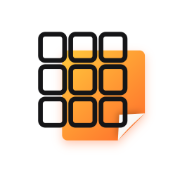
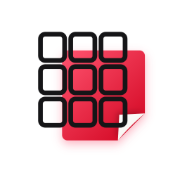
브랜드 정리: 홍이도 인형 로고, 머리색 포인트, 그라디언트 배경, 칩·매수 정리

Changed region(s): [[0.3333, 0.2778, 0.8056, 0.8056]]

diff --git a/public/style.css b/public/style.css
@@ -1,4 +1,5 @@
-/* style.css — 다크룸 테마 (아이폰 설정과 상관없이 항상 어두운 화면) */
+/* style.css — 다크룸 테마 (아이폰 설정과 상관없이 항상 어두운 화면)
+   포인트 색은 홍이도 캐릭터의 머리색 하나로 통일한다. */
 
 :root {
   color-scheme: dark;
@@ -9,20 +10,26 @@
   --text: #f2f2f2;
   --text-2: #a1a1a6;      /* 보조 글자 */
   --text-3: #6e6e73;      /* 아주 옅은 글자 */
-  --accent: #ffb547;      /* 앰버: 인쇄 버튼, 선택한 칸 */
-  --on-accent: #1a1300;
-  --danger: #ff6b5e;
+  --accent: #f81a44;      /* 홍이도 머리색: 인쇄 버튼, 선택한 칸, 스위치 */
+  --on-accent: #ffffff;
+  --accent-soft: rgba(248, 26, 68, 0.14);
+  --danger: #a1a1a6;      /* 비우기 같은 버튼은 포인트 색과 헷갈리지 않게 회색으로 */
   --paper: #f7f7f5;       /* 스티커 용지 */
   --empty-line: #d1d1d6;  /* 빈 칸 점선 */
   --empty-plus: #c7c7cc;  /* 빈 칸 + */
   --icon-cut: var(--bg);  /* 아이콘 안쪽을 바탕색으로 비우기 */
   --font: -apple-system, BlinkMacSystemFont, "SF Pro Text", "Apple SD Gothic Neo", "Malgun Gothic", sans-serif;
+  /* 로고용: 아이폰 기본 글꼴(SF Pro)을 보통 굵기·좁은 자간으로. 따로 내려받지 않아 가볍다 */
+  --font-display: -apple-system, BlinkMacSystemFont, "SF Pro Display", "Helvetica Neue", "Segoe UI", Arial, sans-serif;
+  /* 배경: 왼쪽 위에서 머리색 빛이 아주 은은하게 번지고, 아래로 갈수록 거의 검정 */
+  --bg-glow: radial-gradient(130% 55% at 0% 0%, rgba(248, 26, 68, 0.22) 0%, rgba(120, 20, 40, 0.10) 40%, rgba(17, 17, 19, 0) 72%);
   --safe-b: env(safe-area-inset-bottom, 0px);
 }
 
 * { box-sizing: border-box; }
 
-html, body { background: var(--bg); }
+html { background: var(--bg); }
+body { background: var(--bg-glow), var(--bg); background-repeat: no-repeat; min-height: 100svh; }
 
 body {
   -webkit-user-select: none;
@@ -52,22 +59,31 @@ input { -webkit-user-select: text; user-select: text; }
   height: 100svh;
   max-width: 560px;
   margin: 0 auto;
-  padding: max(10px, env(safe-area-inset-top)) 12px calc(84px + var(--safe-b));
+  padding: calc(max(10px, env(safe-area-inset-top)) + 6px) 12px calc(78px + var(--safe-b));
 }
 
 .topbar {
   display: flex;
   align-items: center;
   justify-content: space-between;
-  min-height: 44px;
+  min-height: 40px;
 }
 
-.topbar h1 {
-  margin: 0;
-  font-size: 20px;
-  font-weight: 600;
-  letter-spacing: 0.2px;
+.topbar h1 { margin: 0; font-weight: inherit; }
+
+/* 로고: hongid + 인형 얼굴(o 자리) + 작은 한글 */
+.brand { display: flex; flex-direction: column; gap: 2px; }
+.brand-word {
+  display: flex;
+  align-items: flex-end;
+  font-family: var(--font-display);
+  font-size: 28px;
+  font-weight: 500;
+  letter-spacing: -0.045em;
+  line-height: 0.9;
 }
+.brand-face { height: 0.74em; width: auto; margin-left: 0.04em; margin-bottom: -0.02em; }
+.brand-sub { font-size: 11px; line-height: 1.2; color: var(--text-2); letter-spacing: 0.08em; }
 
 .icon-btn {
   display: inline-flex;
@@ -80,28 +96,34 @@ input { -webkit-user-select: text; user-select: text; }
   border-radius: 50%;
 }
 .icon-btn:active { background: var(--raised); }
+.icon-btn.round { width: 40px; height: 40px; margin-right: 0; background: rgba(255, 255, 255, 0.08); color: #d1d1d6; }
 
-.chips { display: flex; gap: 8px; margin: 2px 4px 12px; }
+.chips { display: flex; align-items: center; justify-content: space-between; gap: 8px; margin: 8px 4px 6px; }
 .topbar { padding: 0 4px; }
 
 .chip {
   display: inline-flex;
   align-items: center;
   gap: 6px;
-  font-size: 12px;
-  padding: 4px 11px;
+  font-size: 14px;
+  font-weight: 500;
+  padding: 5px 12px;
   border-radius: 99px;
-  border: 0.5px solid var(--line);
-  color: #d1d1d6;
-  letter-spacing: 0.2px;
+  background: rgba(255, 255, 255, 0.07);
+  border: 0.5px solid rgba(255, 255, 255, 0.12);
+  color: #e5e5ea;
+  letter-spacing: 0.1px;
 }
-.chip .icon { width: 14px; height: 14px; }
-.chip.count {
-  border: none;
-  background: var(--raised);
-  color: var(--accent);
+.chip .icon { width: 16px; height: 16px; }
+.count {
+  font-family: var(--font-display);
+  font-size: 16px;
+  font-weight: 500;
+  color: var(--text);
   font-variant-numeric: tabular-nums;
+  letter-spacing: 0.02em;
 }
+.count .of { color: var(--text-3); }
 
 .stage {
   flex: 1;
@@ -169,7 +191,7 @@ input { -webkit-user-select: text; user-select: text; }
   left: 0;
   right: 0;
   bottom: 0;
-  padding: 12px 16px calc(14px + var(--safe-b));
+  padding: 10px 16px calc(12px + var(--safe-b));
   background: linear-gradient(to top, var(--bg) 70%, transparent);
   display: flex;
   justify-content: center;
@@ -423,7 +445,7 @@ body.editing { overflow: hidden; }
   border: 0.5px solid var(--line);
   color: var(--text-2);
 }
-.apply-all.on { border-color: var(--accent); color: var(--accent); background: rgba(255, 181, 71, 0.12); }
+.apply-all.on { border-color: var(--accent); color: var(--accent); background: var(--accent-soft); }
 .apply-all[hidden] { display: none; }
 
 .filter-amount {
@@ -534,9 +556,9 @@ main.settings h2 { margin: 0 0 10px; font-size: 17px; font-weight: 600; }
   display: flex;
   gap: 10px;
   align-items: flex-start;
-  background: rgba(255, 181, 71, 0.1);
-  border: 0.5px solid rgba(255, 181, 71, 0.4);
-  color: #ffd38a;
+  background: var(--accent-soft);
+  border: 0.5px solid rgba(248, 26, 68, 0.45);
+  color: #ffb3c0;
   border-radius: 14px;
   padding: 12px 14px;
   margin-bottom: 14px;

diff --git a/public/index.html b/public/index.html
@@ -3,7 +3,7 @@
 <head>
   <meta charset="utf-8">
   <meta name="viewport" content="width=device-width, initial-scale=1, viewport-fit=cover">
-  <meta name="theme-color" content="#111113">
+  <meta name="theme-color" content="#1a0e12">
   <meta name="color-scheme" content="dark">
   <meta name="apple-mobile-web-app-capable" content="yes">
   <meta name="apple-mobile-web-app-title" content="Hongido">
@@ -26,13 +26,16 @@
 <body class="app">
   <main class="layout">
     <header class="topbar">
-      <h1 id="appTitle"></h1>
-      <a class="icon-btn" href="test.html" aria-label="설정"><span data-icon="settings"></span></a>
+      <h1 class="brand" aria-label="홍이도 스티커">
+        <span class="brand-word" aria-hidden="true">hongid<img class="brand-face" src="hongido-face.png" alt=""></span>
+        <span class="brand-sub" aria-hidden="true">홍이도 스티커</span>
+      </h1>
+      <a class="icon-btn round" href="test.html" aria-label="설정"><span data-icon="settings"></span></a>
     </header>
 
     <div class="chips">
       <button class="chip chip-btn" id="paperChip" aria-label="용지 판형 바꾸기"><span data-icon="paper"></span><span id="paperChipText"></span><span class="chev" data-icon="chevron"></span></button>
-      <span class="chip count" id="countChip"></span>
+      <span class="count" id="countChip" aria-live="polite"></span>
     </div>
 
     <div class="stage" id="stage">

diff --git a/public/app.js b/public/app.js
@@ -240,7 +240,8 @@ function render() {
     btn.setAttribute('aria-label', c ? `${i + 1}번 칸 사진` : `${i + 1}번 칸 비어 있음, 사진 고르기`);
   });
   const count = cells.filter(Boolean).length;
-  $('countChip').textContent = `${count} / ${cells.length}`;
+  $('countChip').innerHTML = `${count}<span class="of"> / ${cells.length}</span>`;
+  $('countChip').setAttribute('aria-label', `${cells.length}칸 중 ${count}장`);
   $('emptyHint').classList.toggle('show', count === 0 && !busy);
 }
 
@@ -371,7 +372,6 @@ function onCellTap(i) {
 }
 
 document.addEventListener('DOMContentLoaded', () => {
-  $('appTitle').textContent = UI.appTitle;
   applyPresetLabels();
   buildPresetMenu();
   $('paperChip').addEventListener('click', () => openSheet('presetMenu'));

diff --git a/public/editor.js b/public/editor.js
@@ -89,7 +89,7 @@ const Editor = (() => {
     ctx.restore();
 
     // 프레임 테두리
-    ctx.strokeStyle = getComputedStyle(document.documentElement).getPropertyValue('--accent').trim() || '#ffb547';
+    ctx.strokeStyle = getComputedStyle(document.documentElement).getPropertyValue('--accent').trim() || '#f81a44';
     ctx.lineWidth = 1.5;
     ctx.strokeRect(x - 0.75, y - 0.75, w + 1.5, h + 1.5);
 

diff --git a/public/test.html b/public/test.html
@@ -3,7 +3,7 @@
 <head>
   <meta charset="utf-8">
   <meta name="viewport" content="width=device-width, initial-scale=1, viewport-fit=cover">
-  <meta name="theme-color" content="#111113">
+  <meta name="theme-color" content="#1a0e12">
   <meta name="color-scheme" content="dark">
   <meta name="apple-mobile-web-app-capable" content="yes">
   <meta name="apple-mobile-web-app-title" content="Hongido">

diff --git a/SPEC.md b/SPEC.md
@@ -100,5 +100,6 @@
 - 2026-11-21: 작은 잉크젯 스티커에 맞춘 필터 조정 — 필름 입자는 B1에만 남김(컬러 입자는 얼룩처럼 찍힘). Dog1은 차분하게 누르는 정도를 약 30% 줄이고 대비를 조금 올림(탁해 보이지 않게). C1·Pop은 처음 고르면 강도 80%로 시작(진한 빨강·초록이 뭉개지지 않게).
 - 2026-11-21: 판형 바꾸기 — 첫 화면 용지 칩을 누르면 용지를 고른다. 기본은 Aone29602(스티커 9칸), 두 번째로 4×6 광택 인화지(101.6×152.4mm, 칸 = 용지 전체, 사진 1장). 고른 판형은 기기에 기억되고, 보정값도 판형마다 따로 저장(Aone29602는 기존 값 유지). 판형을 바꾸면 사진은 순서대로 새 칸에 다시 들어가고(필터 유지, 위치는 자동 배치), 칸이 모자라면 확인 후 뒤쪽 사진을 뺀다. 4×6은 시험 인쇄(위치 맞추기)를 숨긴다.
 - 2026-11-21: 속도 개선 — (1) 사진 준비 중에는 화면을 잠그고 진행 상황 표시(그사이 다른 버튼이 눌려 엉뚱한 화면으로 가던 문제 해결). (2) 칸 사진 만들기는 웹 워커(화면과 따로 도는 계산 작업자)에서 처리, 안 되는 기기는 화면 쪽에서. (3) 고른 사진을 JPEG로 다시 저장하지 않고 메모리에 보관(원본 파일도 보관해 판형 변경 시 다시 만듦), 보관 크기는 칸에 필요한 만큼(스티커 칸은 긴 쪽 1608px). 칸 미리 보기를 먼저 보여 주고 인쇄용 JPEG는 뒤에서 만들며, PRINT 때 준비가 덜 됐으면 확인 화면 버튼이 준비될 때까지 기다린다. (4) 선명도 보정을 가볍게 바꾸고 4×6처럼 큰 사진에는 적용하지 않음. (5) 칸을 누를 때 크기 변화 애니메이션 대신 색만 바뀌게, 길게 누르기 미리 보기 막음. PC 측정: 4×6 사진 한 장 2.4초 → 0.6초.
+- 2026-11-21: 브랜드 정리 — 로고 'hongid' + o 자리에 홍이도 인형 얼굴(사용자 제공 그림) + 작은 '홍이도 스티커'. 로고 글꼴은 아이폰 기본 글꼴(SF Pro)을 보통 굵기·좁은 자간으로(내려받는 글꼴 없음). 포인트 색은 인형 머리색 #F81A44 하나로 통일(PRINT, 선택, 스위치, 앱 아이콘), '비우기' 같은 버튼은 포인트 색과 헷갈리지 않게 회색. 배경은 왼쪽 위 머리색 빛이 은은히 번지는 어두운 그라디언트. 매수는 오른쪽 정렬 작은 숫자(6 / 9), 용지 칩 글자는 키움. 용지 미리 보기 크기는 그대로 유지. 파비콘 추가.
 - 2026-11-21: 홈 화면 아이콘 변경 — 흰 바탕에 모서리가 접혀 올라간 오렌지 스티커 용지, 그 위에 살짝 어긋난 검정 3×3 칼선. 홈 화면에서 '스티커 인쇄'로 알아보게.
 - 2026-11-21: PDF는 라이브러리 없이 직접 만든다. 선·사각형·영문 글자·JPEG 사진만 필요해서 코드가 짧고, 외부 파일을 받을 필요가 없다. (PDF 안의 글자는 영문·숫자만 쓰고, 한국어 안내는 앱 화면에 둔다.)
